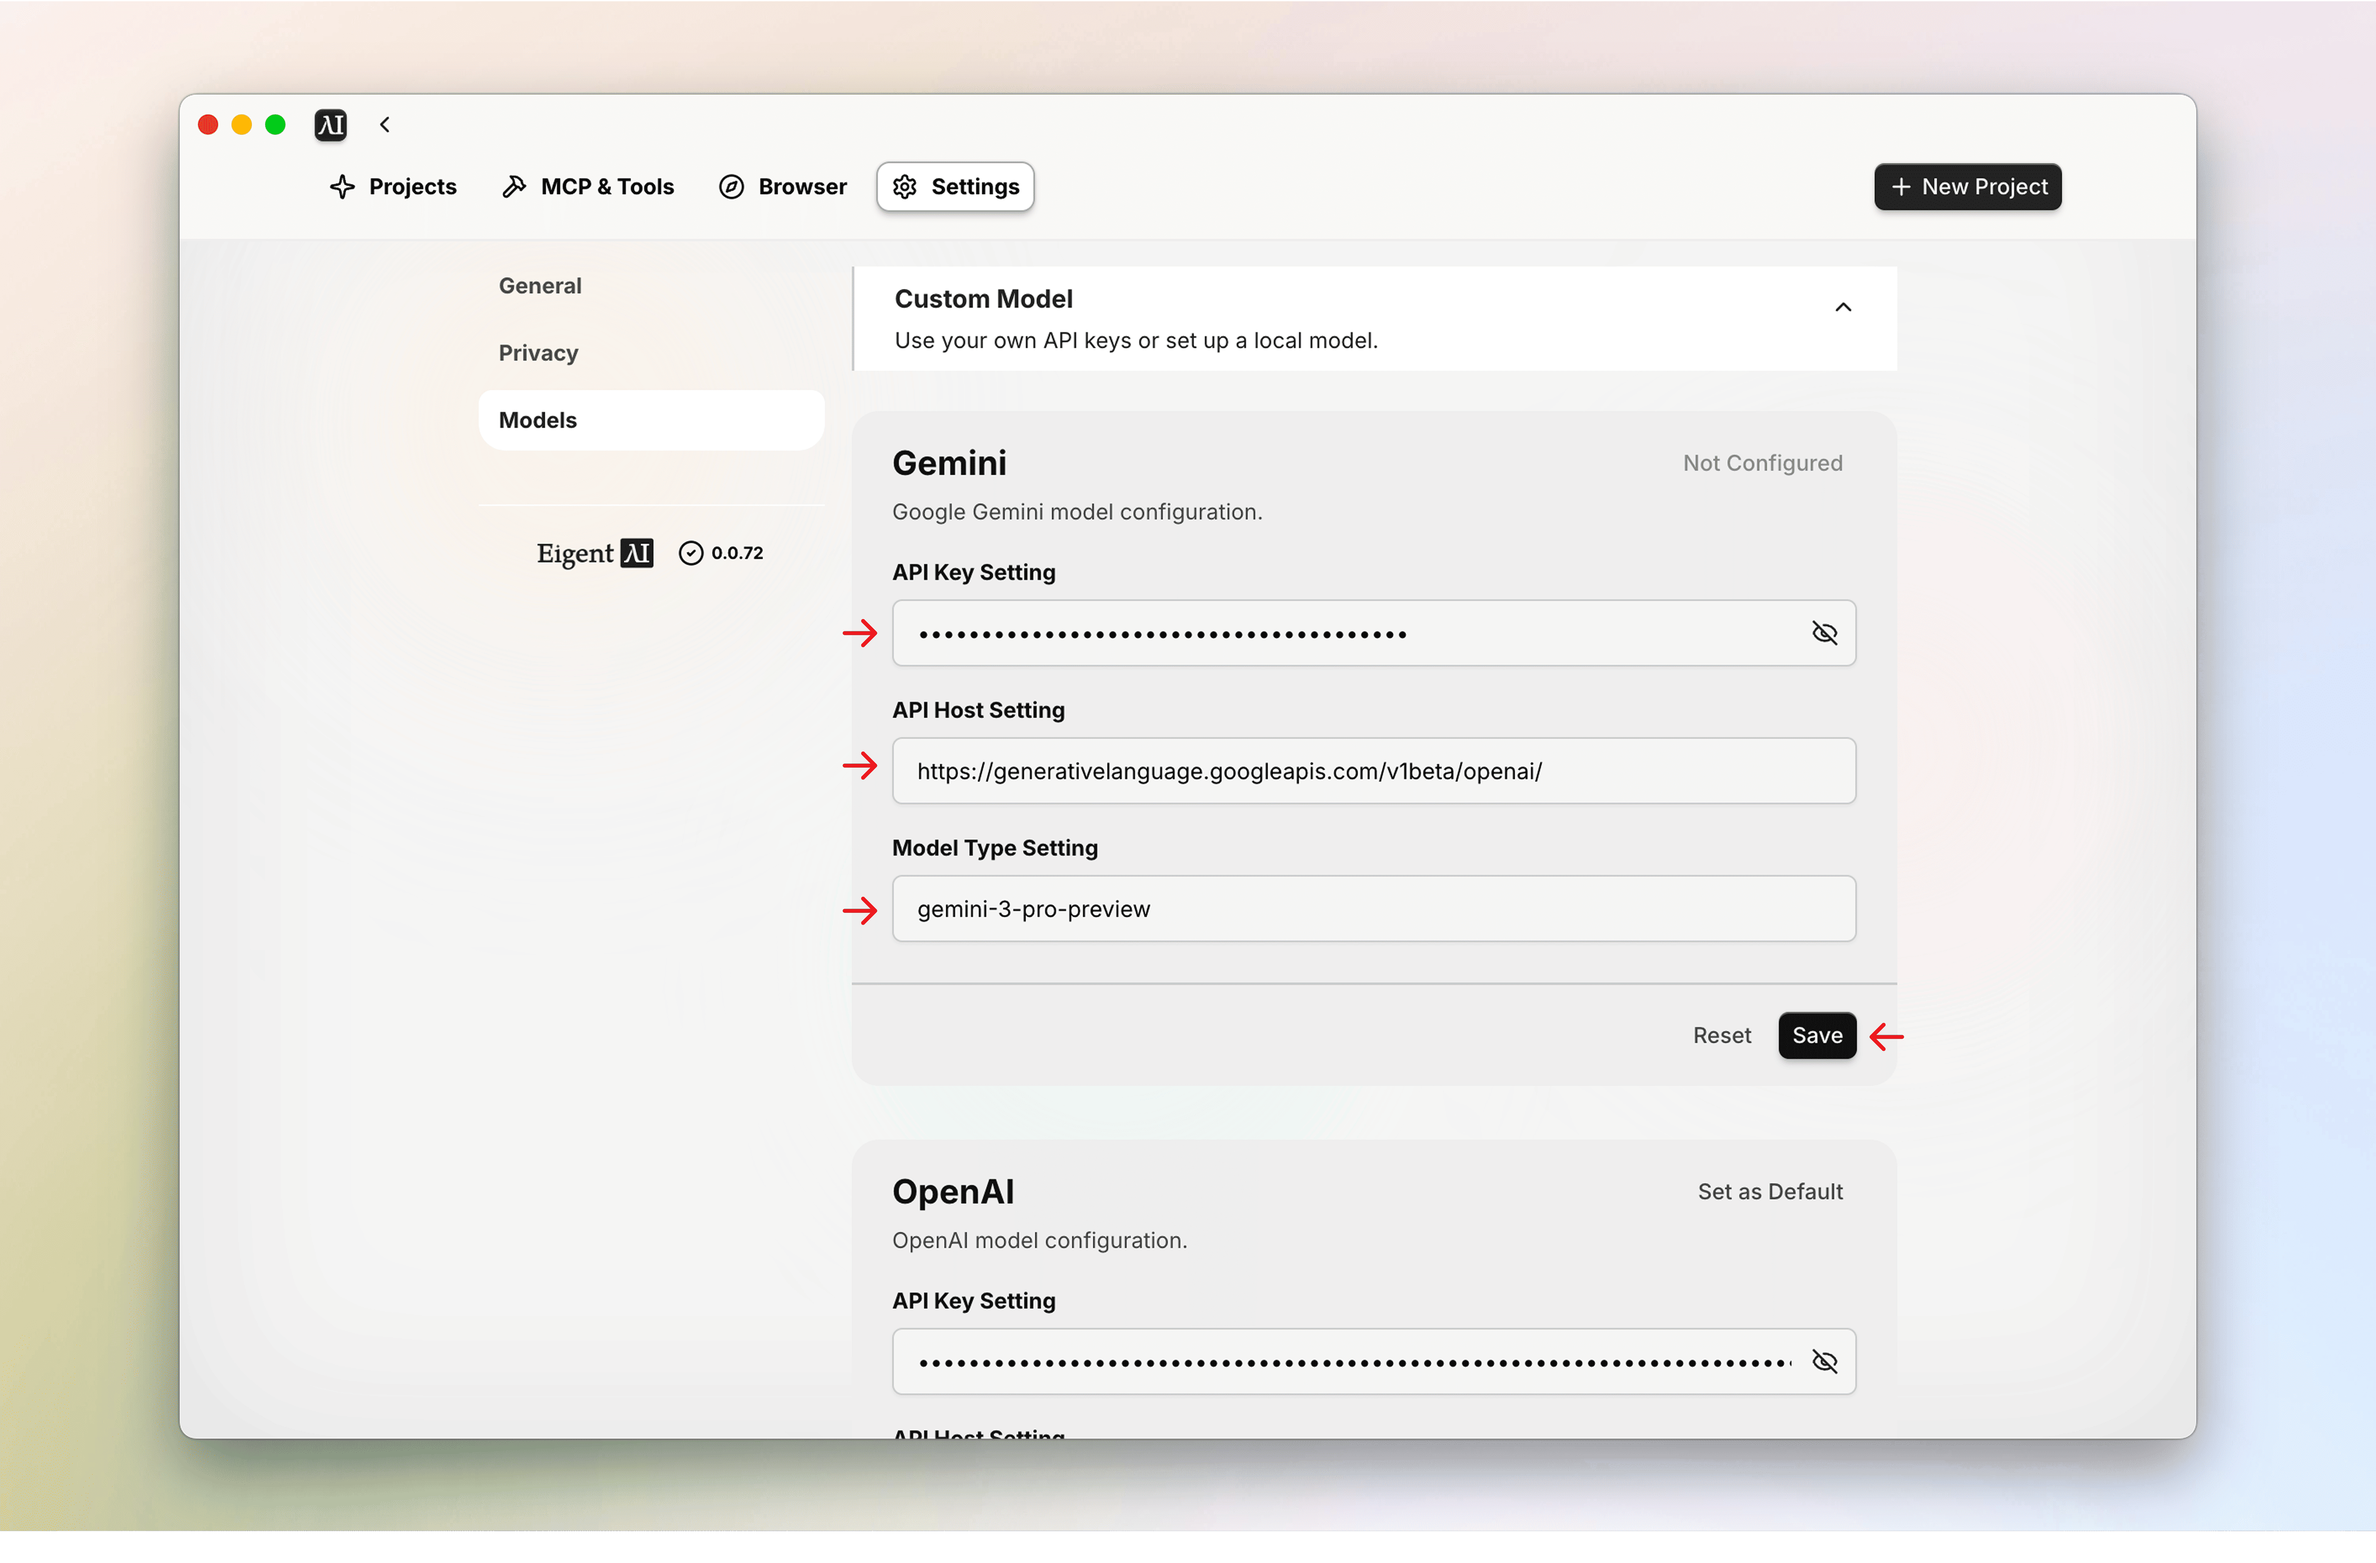
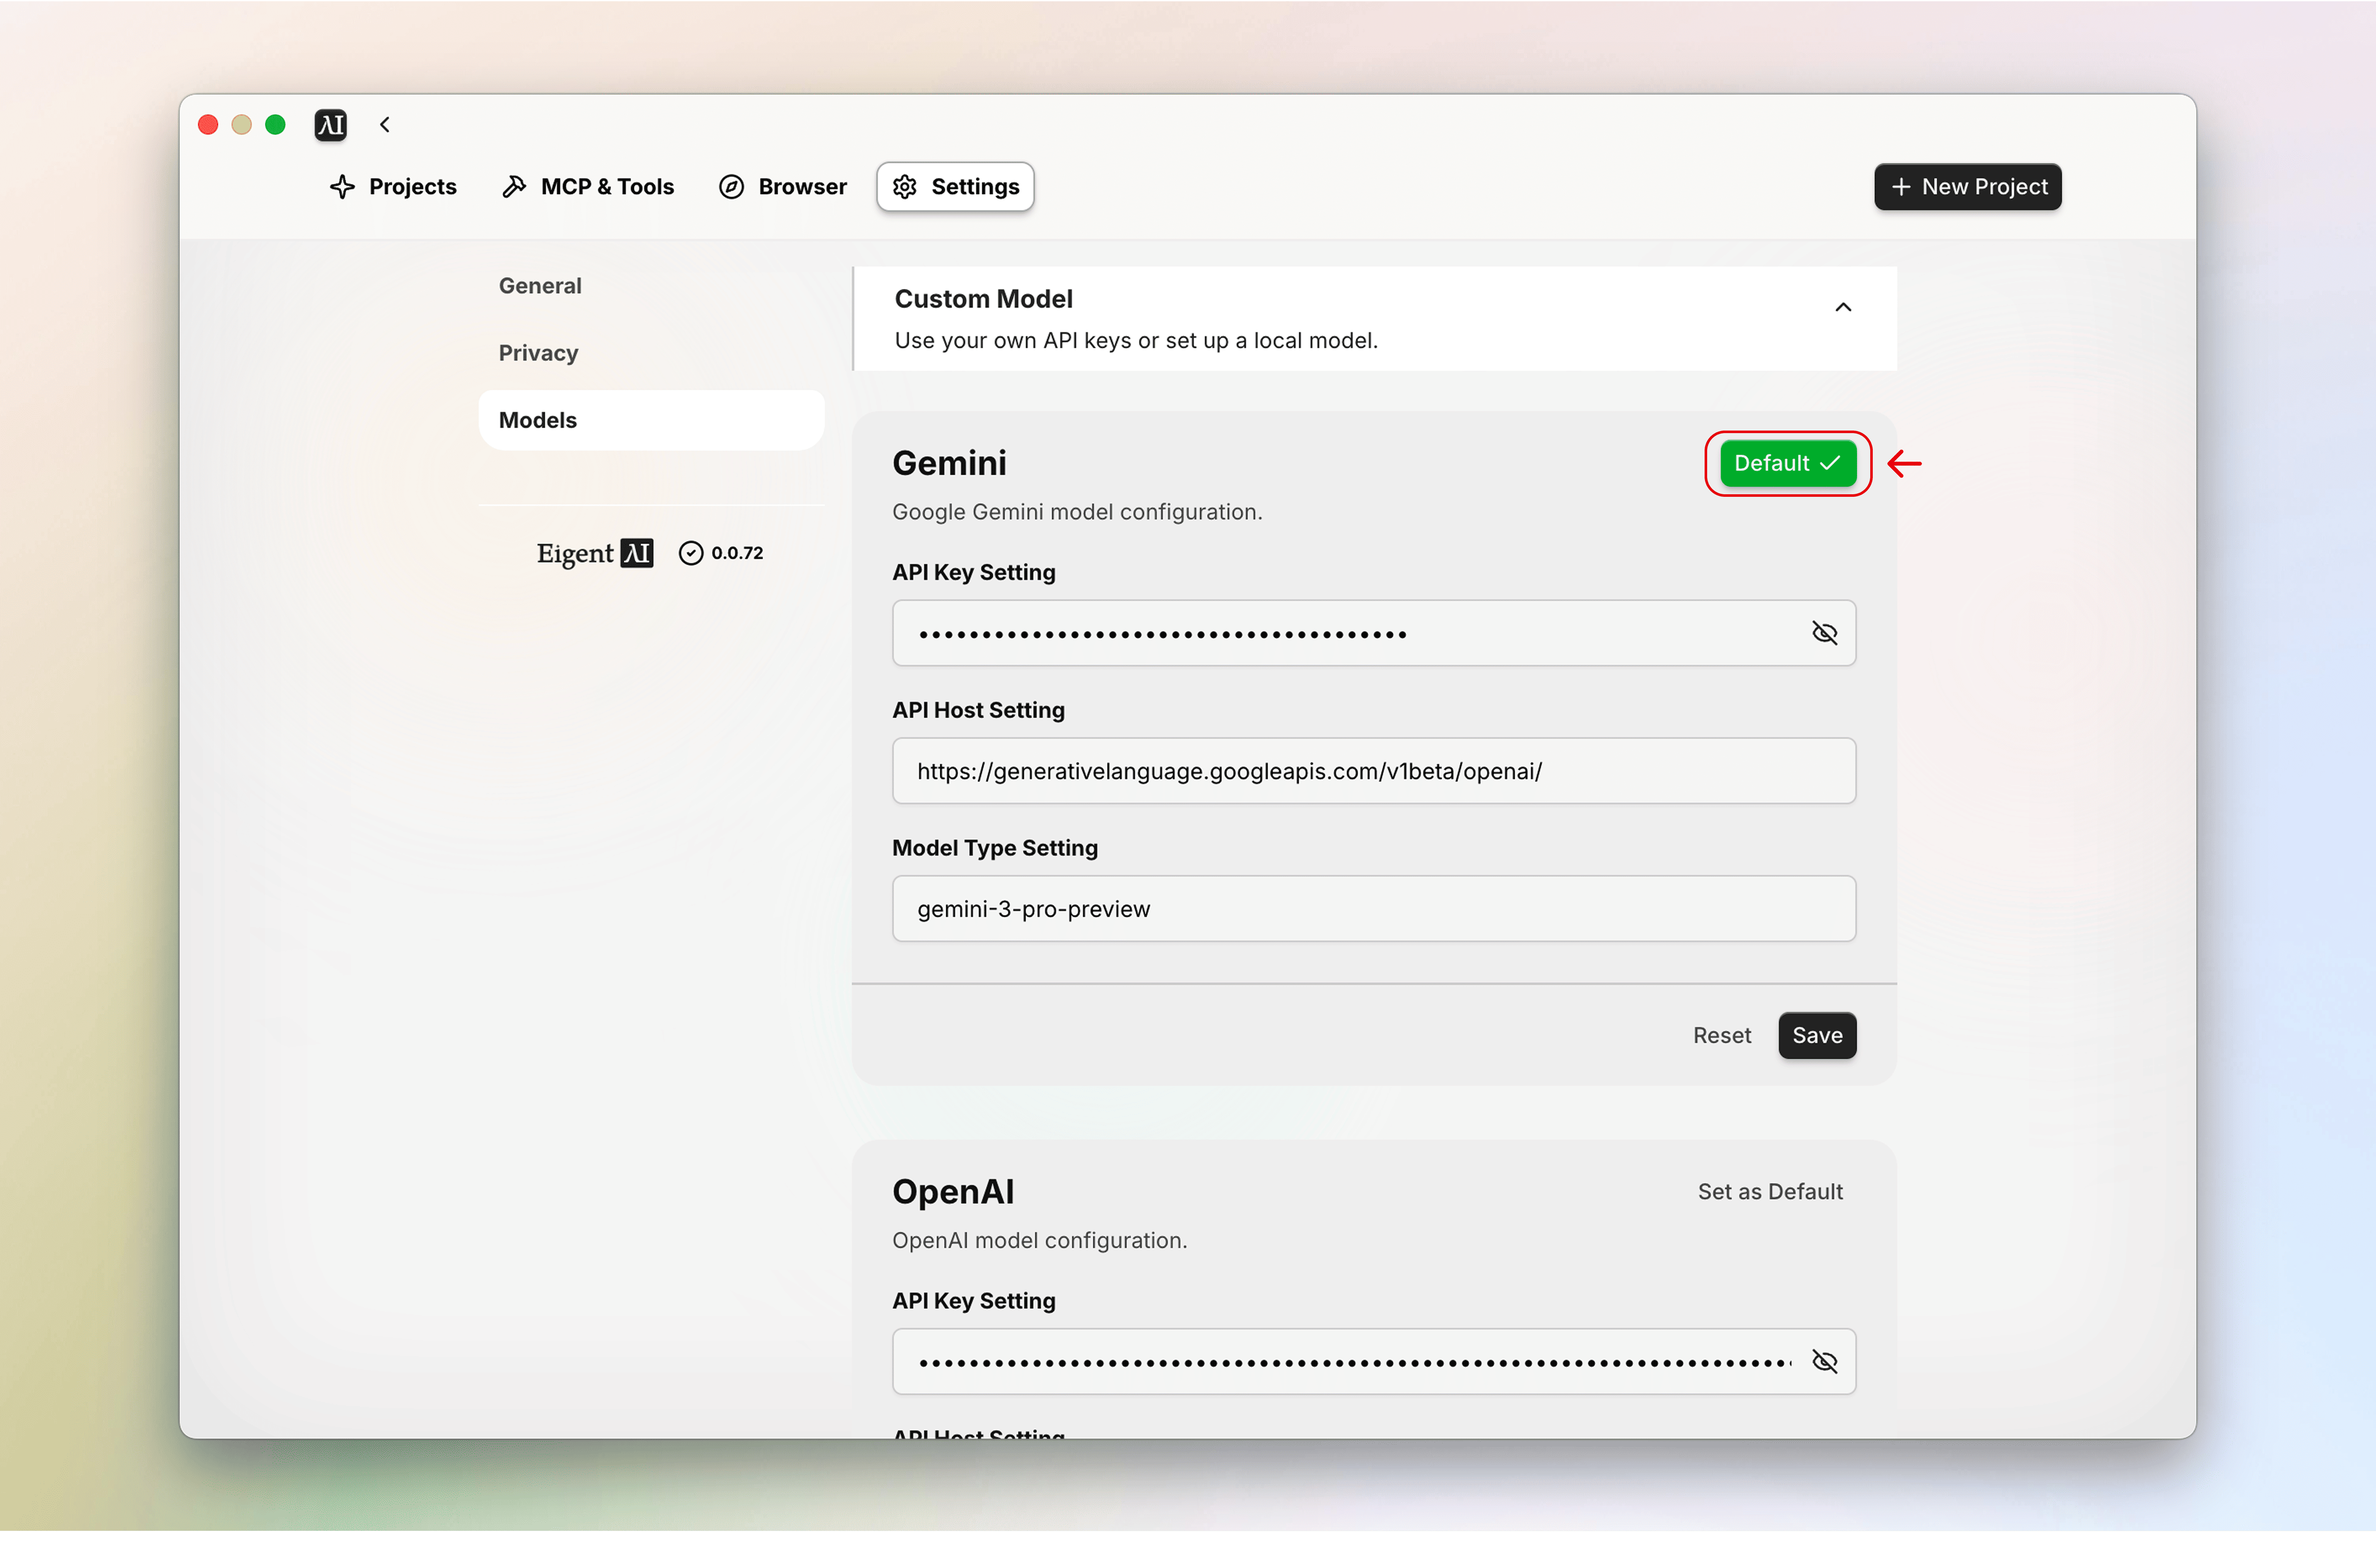
update

diff --git a/docs/core/models/gemini.md b/docs/core/models/gemini.md
@@ -15,7 +15,7 @@ description: "This guide walks you through setting up your Google Gemini API key
 - Launch Eigent and navigate to the **Home Page**.
 - Click on the **Settings** tab (usually located in the sidebar or top navigation).
 
-![Gemini 1 Pn](/docs/images/gemini_1.png)
+![Gemini 1 Pn](/docs/images/model_setting.png)
 
 **2. Locate Model Configuration**
 
@@ -24,7 +24,7 @@ description: "This guide walks you through setting up your Google Gemini API key
 - Look for the **Gemini Config** card.
 - 
 
-![Gemini 2 Pn](/docs/images/gemini_2.png)
+![Gemini 2 Pn](/docs/images/gemini_1.png)
 
 **3. Enter API Details** Click on the Gemini Config card and fill in the following fields:
 
@@ -34,14 +34,14 @@ description: "This guide walks you through setting up your Google Gemini API key
   - _Example:_ `gemini-3-pro-preview`
 - **Save:** Click the **Save** button to apply your changes.
 
-![Gemini 3 Pn](/docs/images/gemini_3.png)
+![Gemini 3 Pn](/docs/images/gemini_2.png)
 
 **4. Set as Default & Verify**
 
 - Once saved, the **"Set as Default"** button on the Gemini Config card will be selected/active.
 - **You are ready to go.** Your Eigent agents can now utilize the Gemini model.
 
-![Gemini 4 Pn](/docs/images/gemini_4.png)
+![Gemini 4 Pn](/docs/images/gemini_3.png)
 
 ---
 

diff --git a/docs/core/models/minimax.md b/docs/core/models/minimax.md
@@ -15,7 +15,7 @@ description: "This guide walks you through setting up your MiniMax API key withi
 - Launch Eigent and navigate to the **Home Page**.
 - Click on the **Settings** tab (usually located in the sidebar or top navigation).
 
-![Minimax 1 Pn](/docs/images/gemini_1.png)
+![Minimax 1 Pn](/docs/images/model_setting.png)
 
 **2. Locate Model Configuration**
 
